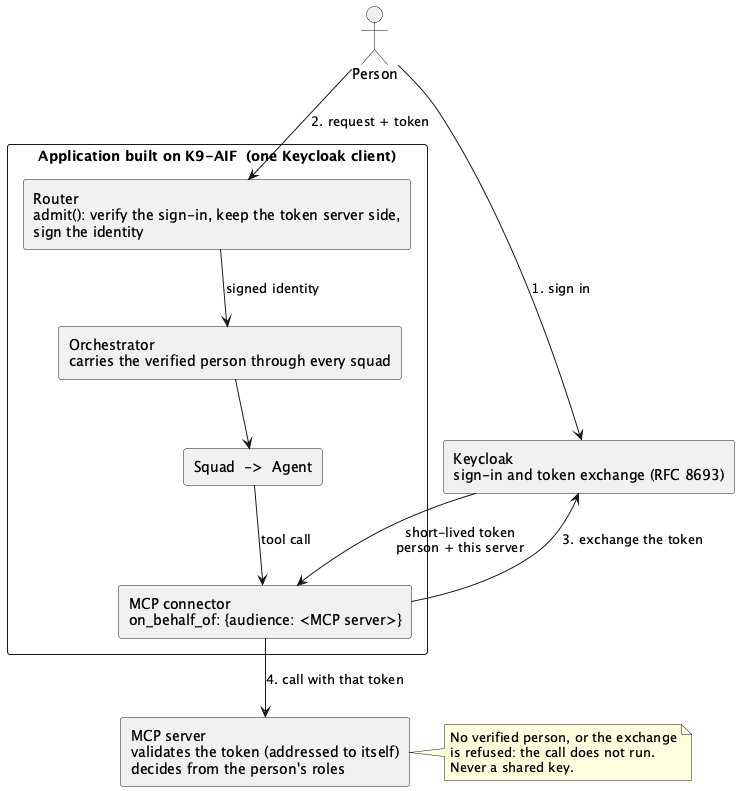
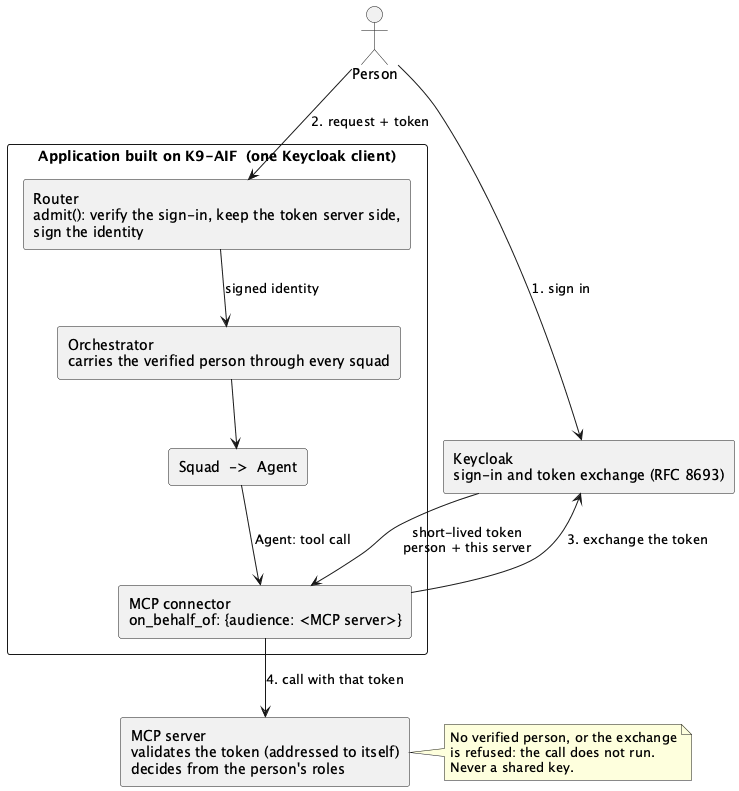
Draft: review fixes (manual checks labelled, spec wording, framework vs app in the refusal, token lifetime, model step and agent label in diagrams)

diff --git a/_posts/2026-11-25-agents-act-for-the-person-who-asked.md b/_posts/2026-11-25-agents-act-for-the-person-who-asked.md
@@ -11,7 +11,7 @@ Before the go: (1) optional RAVI placeholders; (2) GitHub release published, add
 
 Security is the conversation in the AI world right now. One item on my security to-do list has been
 this: when an agent calls a tool for someone, the tool should know who that someone is. With K9-AIF
-1.36.0 that item is done and in the framework.
+1.36.0 that item is done for MCP calls and in the framework.
 
 ## From the sign-in to the tool
 
@@ -42,14 +42,14 @@ The principle behind it is simple: an agent should never be able to do more than
    token is short-lived, addressed to that one server, and names the person.
 4. **The MCP server decides.** It validates the token itself and applies the person's roles.
 
-The whole application is one client in Keycloak. The token says "this application, acting for John";
-K9-AIF records which agent made the call in an `OnBehalfOf` log line and trace event.
+The whole application is one client in Keycloak. The token says "this application (`azp`), acting for
+John (`sub`)"; K9-AIF records which agent made the call in an `OnBehalfOf` log line and trace event.
 
-Why not simply forward the person's login token? Its audience is the application, not the MCP server, so a
-correct server rejects it, and the [MCP authorization
-specification](https://modelcontextprotocol.io/specification/2025-06-18/basic/authorization) forbids
-passing tokens through. In the test below, a forwarded login token got exactly that answer: "Audience
-doesn't match."
+Why not simply forward the person's login token? Its audience is the application, not the MCP server. The
+[MCP authorization specification](https://modelcontextprotocol.io/specification/2025-06-18/basic/authorization)
+(version 2025-06-18) requires a server to accept only tokens issued for itself and forbids token
+passthrough. When I sent the demo's MCP server a forwarded login token by hand, it answered exactly that:
+"Audience doesn't match."
 
 ## Turning it on
 
@@ -97,10 +97,13 @@ on_behalf_of:
 | Router                           | Routes the stamped payload; never sees the token               | `K9_IDENTITY_SECRET`                                                    |
 | Orchestrator                     | Runs the agents; reads the token by reference and exchanges it | `K9_IDENTITY_SECRET`, Redis, `KEYCLOAK_URL`, `K9_OBO_CLIENT_SECRET` |
 
-Each token is stored with the stamp's lifetime (`SETEX`), so it expires on its own. Checked against a live
-Redis: a token stored by one client was read by a separate one, as two containers would, and was gone
-once the lifetime ended. If Redis can't be reached, the request fails; it never continues without the
-person's identity.
+Each token is stored with the stamp's lifetime (`SETEX`), so it expires on its own. I checked this by hand
+against a live Redis: a token stored by one client was read by a separate one, as two containers would,
+and was gone once the lifetime ended. If Redis can't be reached, the request fails rather than continuing
+without the person's identity.
+
+The person's own token also expires on Keycloak's schedule, usually well before the stamp. After that,
+Keycloak refuses the exchange and the person signs in again.
 
 ## The MCP server is the one that says no
 
@@ -149,9 +152,13 @@ call eight times. That is expected, and it is why the decision doesn't rest with
 
 ![A refused tool call travels as an exception](../assets/images/blogs/on_behalf_of_refusal_sequence.png)
 
-The refusal is raised, never returned as an ordinary result. The connector raises, the agent raises, the
-squad logs the failed step and stops the flow, and the orchestrator decides what it means and answers the
-caller with `denied`, who was denied and why. No later step can carry on as if the tool had worked.
+The refusal is raised as an exception, not returned as an ordinary result. The framework's part: the
+connector raises, the squad logs the failed step and stops the flow, and the exception reaches the
+orchestrator, so no later step can carry on as if the tool had worked. The application's part: in the demo,
+the agent wraps the refusal in its own `ToolRefused`, and the application's orchestrator turns it into a
+`denied` answer that says who was denied and why. If there is no verified person at all, the framework
+raises `CredentialUnavailableError` before any call leaves (test:
+`test_no_verified_caller_means_the_call_does_not_run`).
 
 ## Each layer has its own job
 
@@ -176,8 +183,8 @@ records the caller as an agent principal (`principal_type: agent`), and every ag
 it. Give each job its own service account with only the roles it needs, never one shared account with
 broad rights. When a decision needs a named person, K9X HIL brings one back in.
 
-The system user is always a deliberate choice, never a fallback. If a flow that should carry a person
-arrives without one, the call is refused; it doesn't quietly continue as the system user.
+The system user is a deliberate choice, not a fallback. If a flow that should carry a person arrives
+without one, the call is refused instead of quietly continuing as the system user.
 
 ## What's next (planned, not yet in a release)
 
